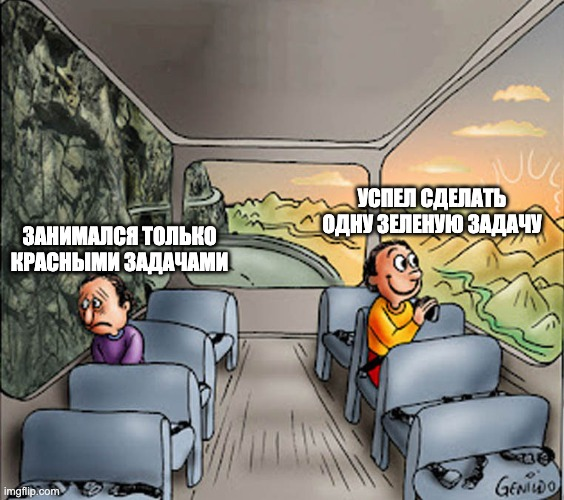
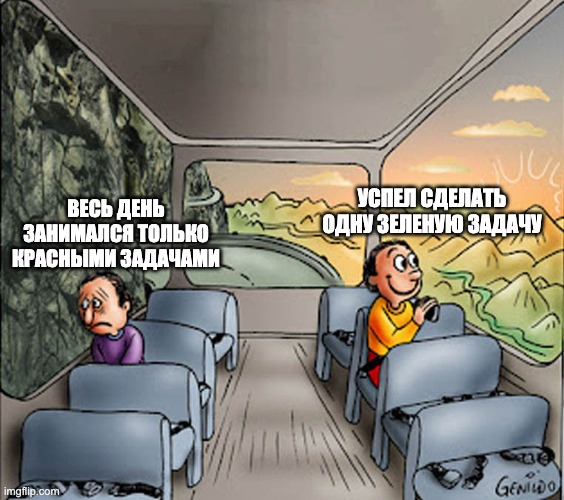
Task priorities

Changed region(s): [[0.0, 0.39, 0.422, 0.57]]

diff --git a/_posts/2024-11-29-tasks-priority.md b/_posts/2024-11-29-tasks-priority.md
@@ -1,0 +1,23 @@
+---
+layout: post
+title: Последовательность выполнения задач
+date: 2024-11-29 00:23:30 +0000
+categories: [Продуктивность]
+tags: [Продуктивность]
+---
+
+![](assets/img/memes/green-and-red-tasks.jpg){: .shadow }
+
+В догонку к [посту про зеленые и красные задачи](/posts/red-and-green-tasks) хочется зафиксировать еще одну важную мысль про последовательность выполнения задач.  
+
+Вы наверняка слышали о [**законе ассоциативности**](https://en.wikipedia.org/wiki/Associative_property) — это фундаментальное свойство, которое гласит, что порядок выполнения операций не влияет на конечный результат. Например, в математике при сложении не важно в каком порядке мы будем складывать числа:  
+
+```
+(a + b) + c = a + (b + c)
+```  
+
+Но вот что интересно: мы часто можем ошибочно применять это свойство к нашим задачам, считая, что порядок выполнения дел не так уж и важен. Например, составляя список задач на день, можно легко поддаться соблазну начать с чего-то незначительного — разобрать почту, помыть посуду или посмотреть ютубчик 🌚, — думая, что "вот сейчас разберусь с мелочью и приступлю к основной задаче".  
+
+На практике, однако, всё работает иначе. Пока мы занимаемся второстепенными делами, наши драгоценные ресурсы (энергия, внимание и мыслетопливо) постепенно истощаются. И к моменту, когда приходит очередь действительно важной задачи, их может уже не хватить.  
+
+Поэтому имеет значение с какой задачи начинать свой день. Если с утра сосредоточится на важных задачах (даже если это будет хотя бы одна зеленая задача), то даже в случае перегруженного дня будет ощущение, что сделали что-то значимое.

diff --git a/_posts/2024-11-28-red-and-green-tasks.md b/_posts/2024-11-28-red-and-green-tasks.md
@@ -6,7 +6,7 @@ categories: [Продуктивность]
 tags: [Продуктивность]
 ---
 
-![](assets/img/memes/green-and-red-tasks.jpg){: .shadow }
+![](assets/img/memes/morfeus-red-green-task.webp){:  w="300" .shadow }
 
 На очередном занятии курса по личной продуктивности, который ведет Максим Дорофеев (автор книги [«Джедайские техники»](https://www.mann-ivanov-ferber.ru/catalog/product/dzhedajskie-texniki)) мы рассматривали типы задач. Об этом и будет сегодняшний пост, где я хочу зафиксировать основные моменты, поскольку, на мой взгляд, это интересная тема, которая увеличивает осознанность при работе с задачами.
 
